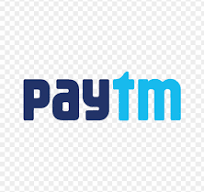
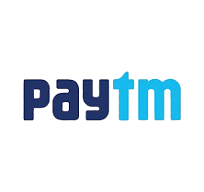
feat(assets): update payment-related images and add new loan images; modify recommended loans data structure

diff --git a/src/styles/global.css b/src/styles/global.css
@@ -1142,8 +1142,8 @@ a:hover {
   margin-bottom: 26px;
   border-radius: 16px;
   overflow: hidden;
-  background: #fff;
-  border: 1px solid #e8eaef;
+  background: var(--qc-surface);
+  border: 1px solid var(--qc-border);
   box-shadow: 0 6px 24px rgba(15, 23, 42, 0.06);
 }
 
@@ -1233,7 +1233,7 @@ a:hover {
 }
 
 .payment-page__merchant-box {
-  background: #eceff3;
+  background: var(--qc-surface);
   border: 1px solid #d1d5db;
   border-radius: 14px;
   padding: 12px 14px;
@@ -1288,7 +1288,7 @@ a:hover {
   letter-spacing: 0.04em;
   text-transform: uppercase;
   font-family: var(--qc-font-body);
-  color: #fff;
+  color: var(--qc-surface);
   background: var(--qc-primary);
   cursor: pointer;
   transition: filter 0.15s ease;
@@ -1318,10 +1318,12 @@ a:hover {
 
 .payment-page__method-tile {
   position: relative;
-  display: block;
+  display: flex;
+  align-items: center;
+  justify-content: center;
   width: 100%;
-  min-height: 132px;
-  padding: 0;
+  min-height: 96px;
+  padding: 14px 16px;
   border: 2px solid #e5e7eb;
   border-radius: 14px;
   background: #fff;
@@ -1359,16 +1361,17 @@ a:hover {
 .payment-page__method-img {
   display: block;
   width: 100%;
-  height: 100%;
-  min-height: 132px;
-  object-fit: cover;
+  height: auto;
+  max-height: 48px;
+  object-fit: contain;
+  object-position: center;
 }
 
 .payment-page__method-fallback {
   display: flex;
   align-items: center;
   justify-content: center;
-  min-height: 132px;
+  min-height: 96px;
   width: 100%;
   padding: 16px 12px;
   font-size: 0.9375rem;
@@ -1385,7 +1388,7 @@ a:hover {
   align-items: center;
   gap: 10px 14px;
   padding: 10px 14px;
-  background: #eceff3;
+  background: var(--qc-surface);
   border: 1px solid #d1d5db;
   border-radius: 14px;
   transition:
@@ -1632,15 +1635,16 @@ a:hover {
   }
 
   .payment-page__method-tile {
-    min-height: clamp(120px, 14vw, 160px);
+    min-height: clamp(88px, 10vw, 112px);
+    padding: clamp(12px, 1.4vw, 16px) clamp(14px, 1.6vw, 18px);
   }
 
   .payment-page__method-img {
-    min-height: clamp(120px, 14vw, 160px);
+    max-height: clamp(44px, 5vw, 56px);
   }
 
   .payment-page__method-fallback {
-    min-height: clamp(120px, 14vw, 160px);
+    min-height: clamp(88px, 10vw, 112px);
   }
 
   .payment-page__summary {

diff --git a/src/data/recommendedLoans.ts b/src/data/recommendedLoans.ts
@@ -1,3 +1,7 @@
+import loan1Img from '@/assets/Loan1.jpeg'
+import loan2Img from '@/assets/Loan2.jpeg'
+import loan3Img from '@/assets/Loan3.jpeg'
+
 export type RecommendedLoan = {
   id: string
   name: string
@@ -12,29 +16,26 @@ export type RecommendedLoan = {
 export const RECOMMENDED_LOANS: RecommendedLoan[] = [
   {
     id: 'rl-1',
-    name: 'GrandLoan',
+    name: 'True Cash',
     displayFigure: '₹7,500',
-    amount: 'Up to ₹5,00,000',
-    image:
-      'https://images.unsplash.com/photo-1579621970563-ebec7560ff3e?w=400&q=80',
-    imageAlt: 'Coins and finance',
+    amount: 'Up to ₹7,500',
+    image: loan1Img,
+    imageAlt: 'True Cash',
   },
   {
     id: 'rl-2',
-    name: 'FlexMoney',
-    displayFigure: '₹12,000',
-    amount: 'Up to ₹2,00,000',
-    image:
-      'https://images.unsplash.com/photo-1554224155-6726b3ff858f?w=400&q=80',
-    imageAlt: 'Calculator and documents',
+    name: 'Cash Bee',
+    displayFigure: '₹9,500',
+    amount: 'Up to ₹9,500',
+    image: loan2Img,
+    imageAlt: 'Cash Bee',
   },
   {
     id: 'rl-3',
-    name: 'MoneySweet',
-    displayFigure: '₹15,000',
-    amount: 'Up to ₹10,00,000',
-    image:
-      'https://images.unsplash.com/photo-1554224154-26032cec0a0c?w=400&q=80',
-    imageAlt: 'Credit card and phone',
+    name: 'Tata Credit',
+    displayFigure: '₹14,500',
+    amount: 'Up to ₹14,500',
+    image: loan3Img,
+    imageAlt: 'Tata Credit',
   },
 ]

diff --git a/src/pages/PaymentPage.tsx b/src/pages/PaymentPage.tsx
@@ -190,7 +190,7 @@ export default function PaymentPage() {
                 </p>
               ) : null}
 
-              {loan?.paymentUrl ? (
+              {/* {loan?.paymentUrl ? (
                 <section className="payment-page__loan-link" aria-label="Loan payment link">
                   <h2 className="payment-page__step-title">Loan payment link</h2>
                   <p className="payment-page__step-desc">
@@ -206,7 +206,7 @@ export default function PaymentPage() {
                     <FiArrowRight size={18} strokeWidth={2.25} aria-hidden />
                   </a>
                 </section>
-              ) : null}
+              ) : null} */}
 
               <section className="payment-page__summary" aria-label="Amount due">
                 <div className="payment-page__summary-mobile">

diff --git a/src/pages/home/HomeDashboard.tsx b/src/pages/home/HomeDashboard.tsx
@@ -17,7 +17,7 @@ const PRE_APPROVED_ELIGIBLE = 50000
 const OFFER_IMAGE =
   'https://images.unsplash.com/photo-1611974789855-9c2a0a7236a3?w=800&q=80'
 
-const RECOMMENDED_HEADLINE = '₹27,000'
+const RECOMMENDED_HEADLINE = '₹31,500'
 
 function greetingLabel(): string {
   const h = new Date().getHours()
